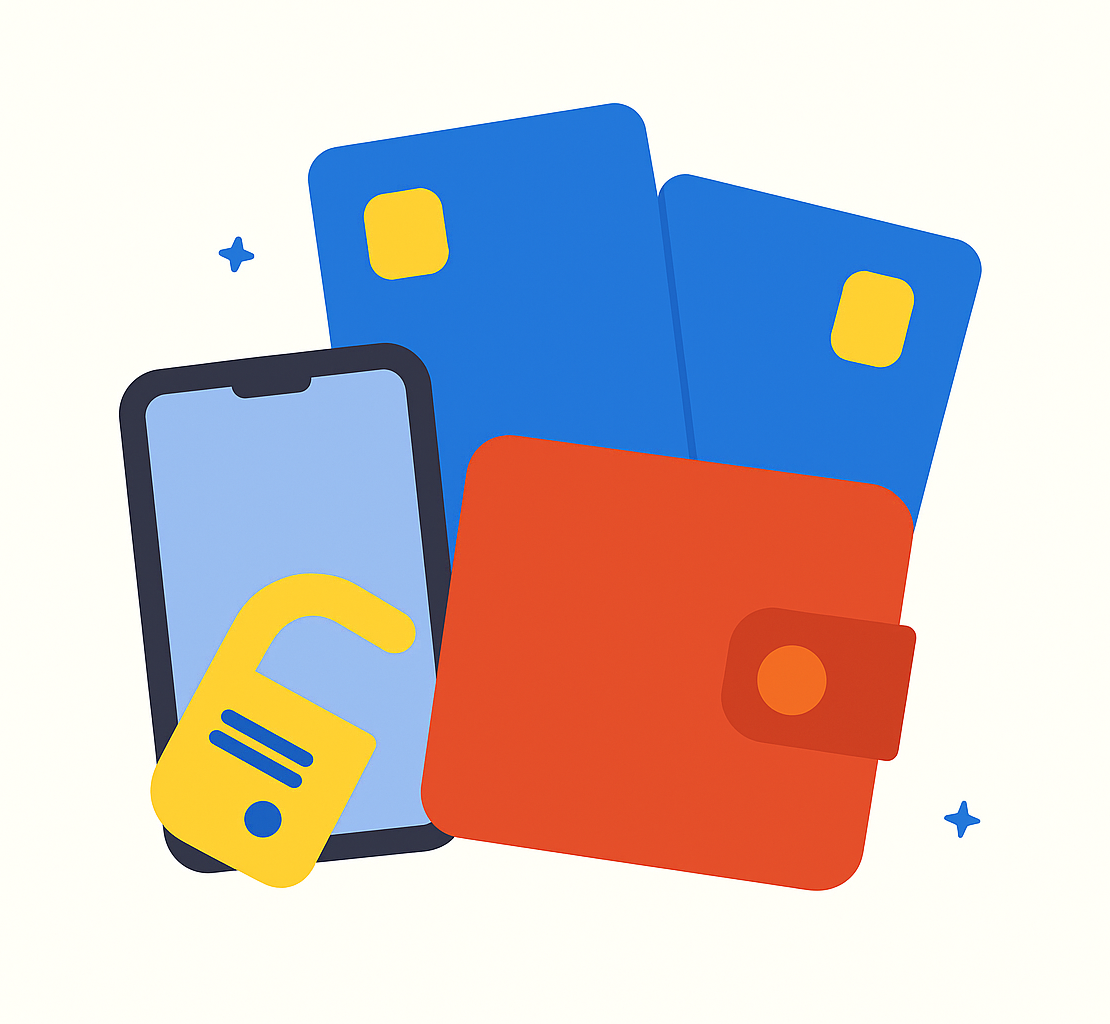
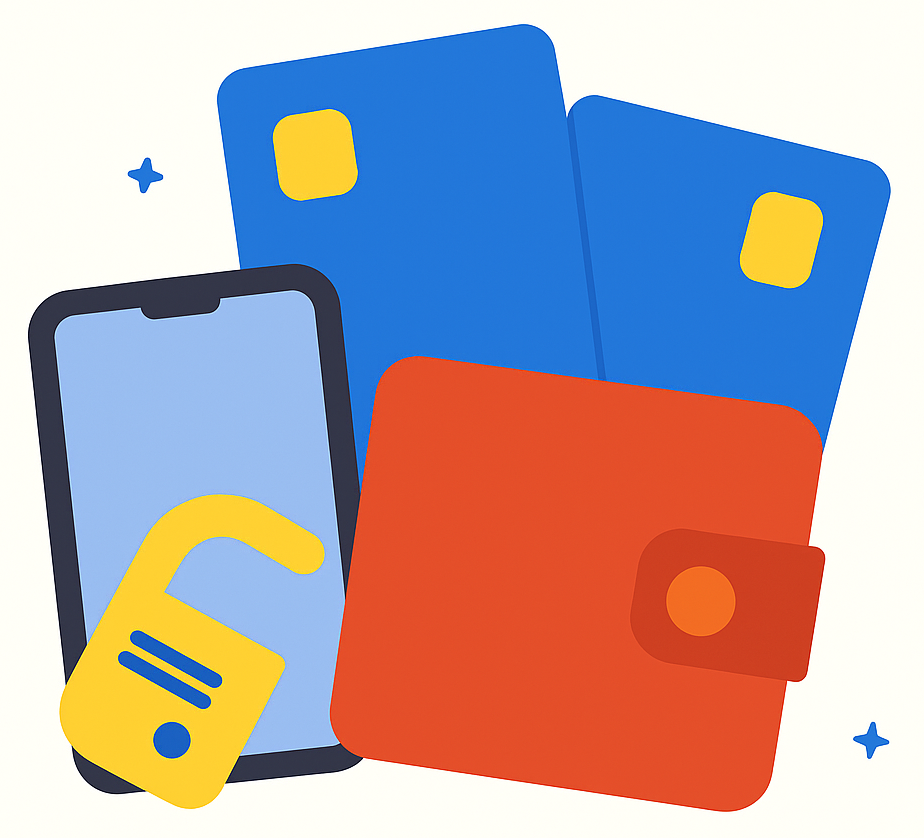
home page look like this which is not proper responsive

diff --git a/src/app/page.tsx b/src/app/page.tsx
@@ -20,7 +20,7 @@ export default function Home() {
   return (
     <div className="space-y-16">
       <section className="py-8 md:py-16">
-        <div className="container grid md:grid-cols-2 gap-12 items-center max-w-6xl mx-auto">
+        <div className="container grid md:grid-cols-2 gap-8 md:gap-12 items-center max-w-6xl mx-auto">
             <div className="space-y-6 text-center md:text-left">
                 <h1 className="text-4xl md:text-5xl lg:text-6xl font-bold font-headline text-foreground tracking-tight">
                     {t('heroTitle1')}
@@ -29,17 +29,17 @@ export default function Home() {
                     {t('heroSubtitle')}
                 </p>
                 <div className="flex flex-col sm:flex-row justify-center md:justify-start items-center gap-4">
-                    <Button asChild size="lg" className="w-full sm:w-auto shadow-lg hover:shadow-xl transition-shadow py-4 px-10 text-lg sm:text-xl h-auto">
+                    <Button asChild size="lg" className="w-full sm:w-auto shadow-lg hover:shadow-xl transition-shadow py-3 px-8 text-base sm:text-lg h-auto">
                     <Link href="/browse">{t('heroButtonLost')}</Link>
                     </Button>
-                    <Button asChild size="lg" variant="outline" className="w-full sm:w-auto py-4 px-10 text-lg sm:text-xl h-auto border-2 border-foreground">
+                    <Button asChild size="lg" variant="outline" className="w-full sm:w-auto py-3 px-8 text-base sm:text-lg h-auto border-2 border-foreground">
                     <Link href="/report-found">{t('heroButtonFound')}</Link>
                     </Button>
                 </div>
             </div>
-             <div className="flex justify-center">
+             <div className="flex justify-center order-first md:order-last">
               <Image
-                src="/hero.png"
+                src="https://thumb.photo-ac.com/a3/a3ea8f0696bc002a2e7425406318bae8_t.jpeg"
                 alt="FindItNow hero image"
                 width={500}
                 height={400}
